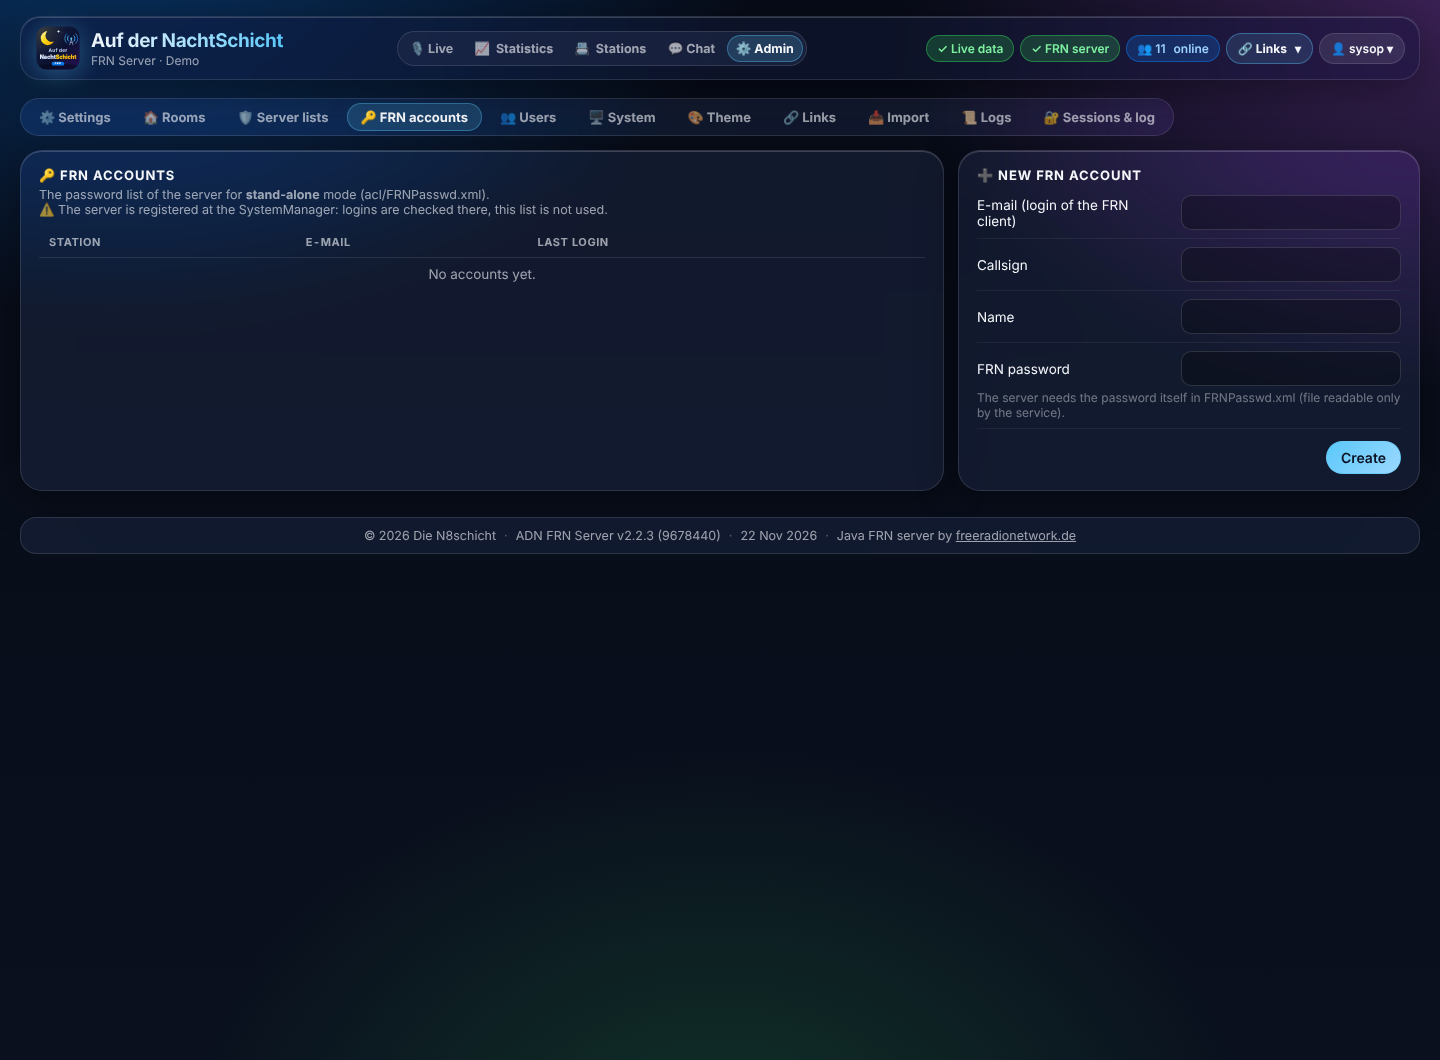
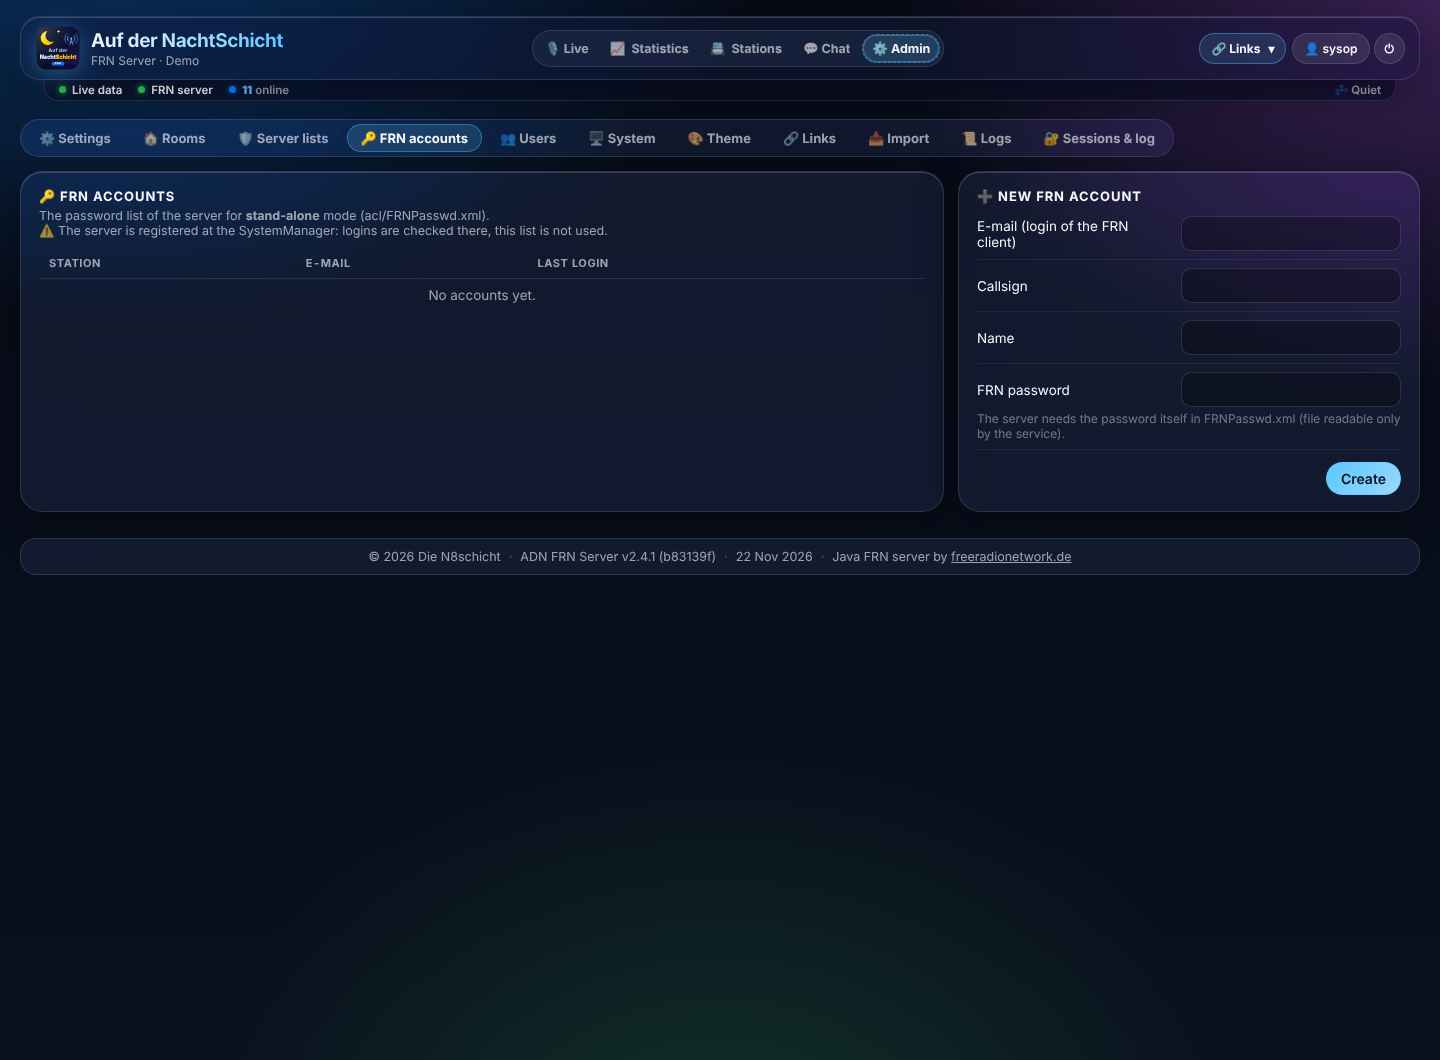
v2.5.0: one menu in the header + slim status strip
- Header: brand | tabs | links + login; ⚙ Admin as menu item after login
- Logged in: name (own account) + ⏻ log out, no drop-down
- New 22 px status strip: Live data, FRN server, n online, On air / Quiet
- Shared static/n8-header.css (same as N8-HotSpot)
- Docs: header section rewritten, all header screenshots renewed

Claude-Session: https://claude.ai/code/session_01J5RG2onGtWffnXNHvutXxa

diff --git a/static/n8-header.css b/static/n8-header.css
@@ -1,0 +1,50 @@
+/*
+ * N8 Header 2 – shared by the N8schicht dashboards (HBlink4-FreeRadioID, ADN FRN Server, N8-HotSpot).
+ * The same file is in every repository; change it in one, copy it to the others.
+ *
+ *   <div class="n8-topbar">
+ *     <header> logo/title | menu (… ⚙ Admin after login) | links + 🔐 Login / user + ⏻, far right </header>
+ *     <div class="n8-strip"> <span class="n8-ss ok">Live data</span> … <span class="n8-sp"></span> … </div>
+ *   </div>
+ *
+ * One menu in the header, the status of the services in a slim strip under it
+ * (lower than the menu, attached to the header). Status items: .n8-ss + ok | warn | bad | info | idle.
+ */
+.n8-topbar { position: sticky; top: 10px; z-index: 50; margin-bottom: 18px; }
+.n8-topbar > header { position: relative !important; top: auto !important; margin-bottom: 0 !important; z-index: 2; }
+
+.n8-strip { display: flex; align-items: center; gap: 4px 16px; margin: -1px 24px 0; padding: 0 14px; height: 22px;
+            font-size: 11.5px; font-weight: 600; line-height: 22px; color: var(--text-dim, rgba(235, 240, 250, .62));
+            border-radius: 0 0 14px 14px; position: relative; z-index: 1; white-space: nowrap;
+            background: rgba(12, 17, 34, 0.72); border: 1px solid var(--glass-border, rgba(255, 255, 255, .12)); border-top: 0;
+            -webkit-backdrop-filter: var(--glass-blur, blur(22px)); backdrop-filter: var(--glass-blur, blur(22px));
+            overflow-x: auto; scrollbar-width: none; }
+.n8-strip::-webkit-scrollbar { display: none; }
+.n8-ss { display: inline-flex; align-items: center; gap: 0; border: 0; background: none; padding: 0; color: inherit; font: inherit; }
+.n8-ss::before { content: ''; flex: none; width: 7px; height: 7px; margin-right: 6px; border-radius: 50%;
+                 background: #8e8e93; box-shadow: 0 0 5px rgba(142, 142, 147, .6); }
+.n8-ss.ok::before { background: #30d158; box-shadow: 0 0 6px rgba(48, 209, 88, .8); }
+.n8-ss.warn::before { background: #ffd60a; box-shadow: 0 0 6px rgba(255, 214, 10, .7); }
+.n8-ss.bad::before { background: #ff453a; box-shadow: 0 0 6px rgba(255, 69, 58, .8); animation: n8-pulse 2s ease-in-out infinite; }
+.n8-ss.info::before { background: #0a84ff; box-shadow: 0 0 6px rgba(10, 132, 255, .8); }
+.n8-ss.plain::before { display: none; }
+.n8-ss.ok, .n8-ss.bad { color: var(--text, #f5f7fb); }
+.n8-ss b { color: var(--accent, #5ac8fa); }
+button.n8-ss { cursor: pointer; }
+button.n8-ss:hover { color: var(--text, #f5f7fb); }
+.n8-sp { flex: 1 1 auto; }
+@keyframes n8-pulse { 0%, 100% { opacity: 1; } 50% { opacity: .45; } }
+
+/* logged in: who am I (click = my account) and log out – no drop-down */
+.n8-user { display: inline-flex; align-items: center; gap: 4px; }
+.n8-user .n8-logout { padding-left: 10px !important; padding-right: 10px !important; }
+.n8-user .n8-logout:hover { background: rgba(255, 69, 58, .22) !important; border-color: rgba(255, 69, 58, .5) !important; }
+.n8-menu-admin { border: 1px dashed rgba(var(--accent-rgb, 90, 200, 250), .45) !important; }
+
+html[data-theme-mode=light] .n8-strip { background: rgba(255, 255, 255, .78); }
+@media (max-width: 1280px) { .n8-user .u-name { display: none; } }
+@media (max-width: 600px) {
+    .n8-topbar { top: 6px; margin-bottom: 10px; }
+    .n8-strip { margin: -1px 12px 0; padding: 0 10px; gap: 4px 12px; height: 20px; line-height: 20px; font-size: 10.5px; }
+    .n8-strip .n8-long { display: none; }
+}

diff --git a/static/app.js b/static/app.js
@@ -244,7 +244,10 @@ function renderHeader() {
 function renderUser() {
     const el = $('userArea');
     if (!S.me) { el.innerHTML = '<button class="btn primary" onclick="openLogin()" title="Login">🔐<span class="u-name">&nbsp;Login</span></button>'; return; }
-    el.innerHTML = `<button class="btn" onclick="userMenu(event)" title="${esc(S.me.display_name || S.me.username)}">👤<span class="u-name">&nbsp;${esc(S.me.display_name || S.me.username)} ▾</span></button>`;
+    // logged in: name (click = my account) and log out – no drop-down; ⚙ Admin is a menu item
+    const name = esc(S.me.display_name || S.me.username);
+    el.innerHTML = `<span class="n8-user"><button class="btn" onclick="openAccount()" title="${name} · ${esc(S.me.role)} – my account">👤<span class="u-name">&nbsp;${name}</span></button>
+        <button class="btn n8-logout" onclick="logout()" title="Log out" aria-label="Log out">⏻</button></span>`;
 }
 function userMenu(ev) {
     ev.stopPropagation(); closeModal();
@@ -366,16 +369,18 @@ function onEvent(ev) {
 function rooms() { return (S.live && S.live.rooms) || []; }
 function renderLive() { renderChips(); renderOnAir(); renderRooms(); renderLHFilter(); renderLH(); renderFeed(); }
 function renderChips() {
-    const set = (id, cls, text) => { const e = $(id); e.className = 'chip ' + cls; e.textContent = text; e.title = text; };
-    set('chipLive', S.wsOk ? 'ok' : 'bad', S.wsOk ? '✓ Live data' : '✕ Live data');
+    // status strip under the menu: a coloured dot says it, the text stays short
+    const set = (id, cls, text) => { const e = $(id); e.className = 'n8-ss ' + cls; e.textContent = text; e.title = text; };
+    set('chipLive', S.wsOk ? 'ok' : 'bad', S.wsOk ? 'Live data' : 'Live data offline');
     const st = S.live && S.live.server;
-    if (!st) set('chipServer', '', '🛰 FRN server');
-    else set('chipServer', st.running ? 'ok' : 'bad', st.running ? (st.warning ? '✓ FRN server · SystemManager warning' : '✓ FRN server') : st.error ? '✕ FRN server: error' : st.service === 'active' ? '… FRN server starting' : '✕ FRN server stopped');
+    if (!st) set('chipServer', '', 'FRN server');
+    else set('chipServer', st.running ? (st.warning ? 'warn' : 'ok') : st.service === 'active' && !st.error ? 'warn' : 'bad',
+             st.running ? (st.warning ? 'FRN server · SystemManager warning' : 'FRN server') : st.error ? 'FRN server: error' : st.service === 'active' ? 'FRN server starting' : 'FRN server stopped');
     const online = rooms().reduce((a, r) => a + r.clients.filter(c => !c.parrot).length, 0);
-    set('chipOnline', online ? 'info' : '', '');
-    $('chipOnline').innerHTML = `👥 ${online}<span class="ch-l">&nbsp;online</span>`;
+    set('chipOnline', online ? 'info' : 'idle', '');
+    $('chipOnline').innerHTML = `<b>${online}</b>&nbsp;online`;
     const talkers = rooms().map(r => r.talking).filter(Boolean);
-    set('chipAir', talkers.length ? 'ok' : '', talkers.length ? `🎙 ${talkers.map(t => t.callsign || '?').join(', ')}` : '💤 Quiet');
+    set('chipAir', talkers.length ? 'ok' : 'plain', talkers.length ? `🎙 On air: ${talkers.map(t => t.callsign || '?').join(', ')}` : '💤 Quiet');
     $('sOnline').textContent = online;
 }
 const CL_ICON = { 0: ['🔗', 'Crosslink'], 1: ['📻', 'Gateway (radio)'], 2: ['💻', 'PC only'] };

diff --git a/static/index.html b/static/index.html
@@ -13,9 +13,11 @@
     <link rel="stylesheet" href="/static/extras.css?v={{V}}">
     <link rel="stylesheet" href="/static/n8-live.css?v={{V}}">
     <link rel="stylesheet" href="/static/n8-light.css?v={{V}}">
+    <link rel="stylesheet" href="/static/n8-header.css?v={{V}}">
 </head>
 <body>
 <div class="container">
+    <div class="n8-topbar">
     <header>
         <div class="brand">
             <img src="/branding/logo?v={{V}}" alt="Auf der NachtSchicht">
@@ -29,16 +31,21 @@
             <button data-tab="stats">📈 <span class="t-long">Statistics</span><span class="t-short">Stats</span></button>
             <button data-tab="stations">📇 <span class="t-long">Stations</span><span class="t-short">Stations</span></button>
             <button data-tab="chat" id="tabChatBtn" class="hidden">💬 Chat</button>
-            <button data-tab="admin" id="tabAdminBtn" class="hidden">⚙ Admin</button>
+            <button data-tab="admin" id="tabAdminBtn" class="hidden n8-menu-admin">⚙ Admin</button>
         </nav>
         <div class="chips">
-            <span class="chip" id="chipLive">Live data</span>
-            <span class="chip" id="chipServer">Server</span>
-            <span class="chip" id="chipOnline">Online</span>
-            <span class="chip" id="chipAir">Quiet</span>
             <div class="links-menu" id="linksMenu"><button class="btn links-trigger" type="button" aria-expanded="false" aria-controls="linksPop" onclick="toggleLinks(event)"><span class="links-label">🔗 Links</span> <span aria-hidden="true">▾</span></button><div class="links-pop" id="linksPop" role="menu"><div class="links-loading">Loading links …</div></div></div><span id="userArea"></span>
         </div>
     </header>
+    <!-- status of the services: one slim line under the menu -->
+    <div class="n8-strip" id="statusStrip" role="status">
+        <span class="n8-ss" id="chipLive">Live data</span>
+        <span class="n8-ss" id="chipServer">FRN server</span>
+        <span class="n8-ss" id="chipOnline">Online</span>
+        <span class="n8-sp"></span>
+        <span class="n8-ss" id="chipAir">Quiet</span>
+    </div>
+    </div><!-- /n8-topbar -->
     <nav class="links-bar" id="linksBar" hidden aria-label="Links"></nav>
 
     <div class="banner warn hidden" id="setupBanner">

diff --git a/static/extras.css b/static/extras.css
@@ -120,3 +120,6 @@ header .chips { flex: 0 1 auto; justify-content: flex-end; flex-wrap: nowrap; }
                 animation: restart-spin 0.9s linear infinite; }
 @keyframes restart-spin { to { transform: rotate(360deg); } }
 @media (prefers-reduced-motion: reduce) { .restart-spin { animation-duration: 3s; } }
+
+/* status strip (n8-header.css): "on air" lives there now */
+.n8-strip #chipAir { display: inline-flex !important; }

diff --git a/frnadn/__init__.py b/frnadn/__init__.py
@@ -1,2 +1,2 @@
 """frn_adn – dashboard and admin area for the FRN server, design: Auf der NachtSchicht."""
-__version__ = "2.4.1"
+__version__ = "2.5.0"

diff --git a/docs/de/dashboard.md b/docs/de/dashboard.md
@@ -39,18 +39,29 @@ dem Rufzeichen heißt: spricht gerade.
 
 ## Kopfzeile und Menü
 
-Wie bei HBlink4-FreeRadioID liegt alles in **einer** Kopfzeile: links Logo, Titel und Untertitel, in der Mitte die **Reiter**, rechts Status, Links-Knopf und Anmeldung.
+Wie bei HBlink4-FreeRadioID und N8-HotSpot gibt es oben **ein** Menü: links Logo, Titel und Untertitel, in der Mitte die **Reiter**,
+rechts Links-Knopf und Anmeldung. Direkt darunter hängt eine schmale **Statusleiste** – bewusst niedriger als das Menü –, die nur den
+Zustand der Dienste zeigt. Beides bleibt beim Scrollen oben stehen.
 
-<p align="center"><img src="../images/header-desktop.png" alt="Kopfzeile am Desktop" width="95%"></p>
+<p align="center"><img src="../images/header-desktop.png" alt="Kopfzeile mit Menü und Statusleiste" width="95%"></p>
+
+**Menü**
+
+| Eintrag | Bedeutung |
+|---|---|
+| 🎙 Live · 📈 Statistics · 📇 Stations · 💬 Chat | die Reiter; *Chat* nur mit Berechtigung |
+| ⚙ Admin | erscheint nach dem Login für Admins als eigener Menüpunkt (gestrichelt umrandet) |
+| 🔗 Links ▾ | das Link-Menü (siehe unten) |
+| 🔐 Login | ganz rechts; angemeldet steht dort **👤 Name** (Klick = eigenes Konto, Passwort) und daneben **⏻** zum Abmelden – ohne Aufklappmenü |
+
+**Statusleiste** – der farbige Punkt sagt den Zustand: grün = ok, gelb = wartet, rot = Problem, blau = Info.
 
 | Anzeige | Bedeutung |
 |---|---|
-| 🎙 Live · 📈 Statistics · 📇 Stations · 💬 Chat · ⚙ Admin | die Reiter; *Chat* und *Admin* nur mit Berechtigung |
-| ✓ Live data | Verbindung des Browsers zum Dashboard steht |
-| ✓ FRN server | Der Dienst `frn-server` läuft und lauscht auf seinem Port; ✕ mit Grund (gestoppt, SystemManager-Fehler) |
-| 👥 n online | Stationen in allen sichtbaren Räumen (ohne Parrot) |
-| 🔗 Links ▾ | das Link-Menü (siehe unten) |
-| 🔐 Login / 👤 Name | Anmelden bzw. Benutzer-Menü (Admin-Portal, eigenes Konto, Abmelden) |
+| Live data | Verbindung des Browsers zum Dashboard steht; rot: *Live data offline*, wird automatisch neu aufgebaut |
+| FRN server | Der Dienst `frn-server` läuft und lauscht auf seinem Port; rot mit Grund (gestoppt, SystemManager-Fehler) |
+| n online | Stationen in allen sichtbaren Räumen (ohne Parrot) |
+| On air / Quiet (rechts) | wer gerade spricht bzw. 💤 *Quiet* |
 
 Wer gerade spricht, steht im Bereich **On air** der Live-Seite. Das Farbschema (7 Profile, darunter das helle *Daylight*, jede Farbe frei wählbar) stellt der Admin unter **Admin → Theme** ein.
 
@@ -68,9 +79,8 @@ Jeder Weblink kann sein Website-Site-Icon anzeigen. Das Dashboard cached die abg
 
 ### Am Smartphone
 
-Die Kopfzeile bleibt **eine Zeile**: Logo und Titel, *Live data* und *FRN server* als zwei Statuspunkte (grün = ok, rot = Problem),
-die Zahl der Stationen sowie Links und Benutzer als Symbole. Die Reiter stehen darunter. Die Kacheln bilden ein 3+2-Raster,
-alles Weitere ist einspaltig.
+Oben stehen Logo, Titel sowie Links und Benutzer als Symbole, darunter die Reiter in voller Breite (*Stats* statt *Statistics*).
+Die Statusleiste bleibt eine einzige, niedrige Zeile. Die Kacheln bilden ein 3+2-Raster, alles Weitere ist einspaltig.
 
 <p align="center"><img src="../images/header-mobile.png" alt="Kopfzeile am Smartphone" width="45%"> <img src="../images/live-mobile.png" alt="Live am Smartphone" width="30%"></p>
 

diff --git a/readme.md b/readme.md
@@ -8,7 +8,7 @@
 </p>
 
 <p align="center">
-  <a href="CHANGELOG.md"><img alt="Version" src="https://img.shields.io/badge/Version-2.4.0-4f8cff"></a>
+  <a href="CHANGELOG.md"><img alt="Version" src="https://img.shields.io/badge/Version-2.5.0-4f8cff"></a>
   <a href="CHANGELOG.md"><img alt="Änderungen" src="https://img.shields.io/badge/Änderungen-CHANGELOG-7c5cff"></a>
   <a href="LICENSE"><img alt="Lizenz" src="https://img.shields.io/badge/Lizenz-GPLv3-30d158"></a>
 </p>
@@ -39,6 +39,7 @@ ADN FRN Server ist eine **frische Oberfläche für den Java-FRN-Server** von fre
 | 📇 **Stationen** | Alle gehörten Stationen mit Suche, Avatar, Land und Ort; Detailansicht je Station. |
 | ⚙ **Admin-Portal statt Config-Dateien** | Alle Einstellungen, Räume und FRN-Konten liegen in SQLite; frn_adn schreibt daraus `server.properties`. Server starten, stoppen und neu starten per Knopf. |
 | 👥 **Benutzer & Rechte** | Superadmin, Admins und Benutzer. **E-Mail- und IP-Adressen der Stationen sehen nur Admins.** Dazu Sitzungen und ein Protokoll aller Änderungen. |
+| 🧭 **Ein Menü + Statusleiste** | Kopfzeile mit Logo, Reitern, Links und Login ganz rechts (ohne Aufklappmenü, **⚙ Admin** nach dem Login als Menüpunkt); darunter eine schmale Statusleiste für Live-Daten, FRN-Server, Stationen online und On air |
 | 🔗 **Link-Menü** | Eigene Links (Webseite, Chat, Kontakt …) als Aufklapp-Menü oder Knopfreihe in der Kopfzeile, mit den **Favicons der verlinkten Seiten** (in SQLite zwischengespeichert), „neuer Tab“, Reihenfolge und Schnellstart-Knöpfen – wie bei HBlink4-FreeRadioID. |
 | ⬆ **Updates mit Vorschau** | Zu jeder vollen Stunde und auf Knopfdruck: neue Commits für das Dashboard (GitHub) und neue Versionen des Java-Servers. Zwei getrennte Knöpfe, nie automatisch. |
 | 🎨 **Eigenes Aussehen** | N8 Theme wie bei HBlink4-FreeRadioID und N8-Hotspot: 7 Profile inkl. hellem *Daylight*, jede Farbe frei wählbar, dazu Dashboard-Logo, Site-Icon und Client-Logos. |
@@ -47,7 +48,7 @@ ADN FRN Server ist eine **frische Oberfläche für den Java-FRN-Server** von fre
 | 🧭 **Geführte Installation** | `scripts/install.sh` fragt alles ab, richtet beide Dienste ein und prüft am Ende das Ergebnis. |
 
 <p align="center">
-  <img src="docs/images/header-desktop.png" alt="Kopfzeile mit Reitern, Status und Link-Menü" width="95%">
+  <img src="docs/images/header-desktop.png" alt="Kopfzeile mit Menü und Statusleiste" width="95%">
 </p>
 
 <p align="center">

diff --git a/CHANGELOG.md b/CHANGELOG.md
@@ -2,6 +2,32 @@
 
 Format: neueste Version zuerst. Die Versionsnummer steht in `frnadn/__init__.py`.
 
+## 2.5.0 – 2026-11-22
+
+Neue Kopfzeile: **ein Menü** statt Status-Chips plus Reiter, darunter eine schmale **Statusleiste** – derselbe Aufbau wie in
+HBlink4-FreeRadioID und N8-HotSpot.
+
+### 🧭 Ein Menü in der Kopfzeile
+- Die Kopfzeile enthält nur noch Logo/Titel, die Reiter (**🎙 Live · 📈 Statistics · 📇 Stations · 💬 Chat**) und rechts Links + Anmeldung.
+- **⚙ Admin** ist nach dem Login ein eigener, gestrichelt umrandeter Menüpunkt; der Weg über das Benutzermenü entfällt.
+- **🔐 Login** steht ganz rechts. Angemeldet zeigt der Platz **👤 Name** (Klick öffnet das eigene Konto mit Passwortwechsel) und **⏻ Abmelden**
+  daneben – kein Aufklappmenü mehr.
+
+### 🟢 Statusleiste
+- Neue, 22 px niedrige Leiste direkt unter dem Menü: **Live data**, **FRN server**, **n online** und rechts **On air: Rufzeichen** bzw. **💤 Quiet**.
+- Der Zustand steht als farbiger Punkt vor dem Text (grün ok, gelb wartet, rot Problem, blau Info); die Texte sind kurz und ohne ✓/✕.
+- Am Smartphone bleibt sie eine Zeile; die Statuspunkte in der Kopfzeile entfallen, die Reiter stehen in voller Breite darunter.
+
+### 🛠 Technik
+- Neue gemeinsame Datei `static/n8-header.css` (`.n8-topbar`, `.n8-strip`, `.n8-ss ok/warn/bad/info/idle/plain`, `.n8-user`,
+  `.n8-logout`, `.n8-menu-admin`, helles Theme, Smartphone) – identisch mit N8-HotSpot.
+- `renderUser()` baut Name + ⏻ statt des Benutzermenüs; `renderChips()` schreibt in die Statusleiste. IDs der Elemente bleiben gleich.
+
+### 📚 Doku
+- *Dashboard → Kopfzeile und Menü* neu geschrieben (Menü- und Statusleisten-Tabelle, Smartphone).
+- Screenshots neu: Kopfzeile Desktop/Smartphone, Live (öffentlich, angemeldet, Smartphone), Stations, Statistik und alle Admin-Seiten.
+- Adminbereich und Betrieb verweisen auf den Menüpunkt **⚙ Admin** bzw. die Statusleiste.
+
 ## 2.4.1 – 2026-11-22
 
 ### Geändert

diff --git a/docs/de/adminbereich.md b/docs/de/adminbereich.md
@@ -2,7 +2,7 @@
 
 [← Übersicht](../../readme.md) · [Installation](installation.md) · [Dashboard](dashboard.md) · **Admin-Portal** · [Konfiguration](konfiguration.md) · [Betrieb & Fehlersuche](betrieb.md) · [Updates](updates.md) · [Anleitungen](anleitungen.md)
 
-Oben rechts **🔐 Login**, dann im Benutzer-Menü oder im Tab **⚙ Admin**. Das Admin-Portal ersetzt das Bearbeiten von `server.properties`: alles wird in SQLite gespeichert, frn_adn schreibt die Datei daraus neu. Der Java-FRN-Server liest sie beim Start – nach einer Änderung erscheint oben **Restart now**.
+Oben rechts **🔐 Login**, danach erscheint im Menü der Punkt **⚙ Admin**. Das Admin-Portal ersetzt das Bearbeiten von `server.properties`: alles wird in SQLite gespeichert, frn_adn schreibt die Datei daraus neu. Der Java-FRN-Server liest sie beim Start – nach einer Änderung erscheint oben **Restart now**.
 
 ## Rollen
 

diff --git a/docs/de/betrieb.md b/docs/de/betrieb.md
@@ -32,7 +32,7 @@ Sie stehen im Admin-Portal oben unter *Settings* und im Log:
 
 | Problem | Ursache / Lösung |
 |---|---|
-| **✕ FRN server** in der Kopfzeile | Dienst gestoppt oder Fehler: Admin-Portal → Settings zeigt den Grund; Logs → *server.log* |
+| **FRN server** mit rotem Punkt in der Statusleiste | Dienst gestoppt oder Fehler: Admin-Portal → Settings zeigt den Grund; Logs → *server.log* |
 | Port belegt | `sudo ss -ltnp \| grep 10024` – läuft noch ein anderer FRN-Server? |
 | Dashboard zeigt keine Stationen, obwohl Clients verbunden sind | `server_clients.log` fehlt? `sudo frnadn write-config` schreibt `log4j.xml` neu, danach FRN-Server neu starten |
 | Änderungen wirken nicht | Der Java-Server liest `server.properties` nur beim Start: oben *Restart now* |
